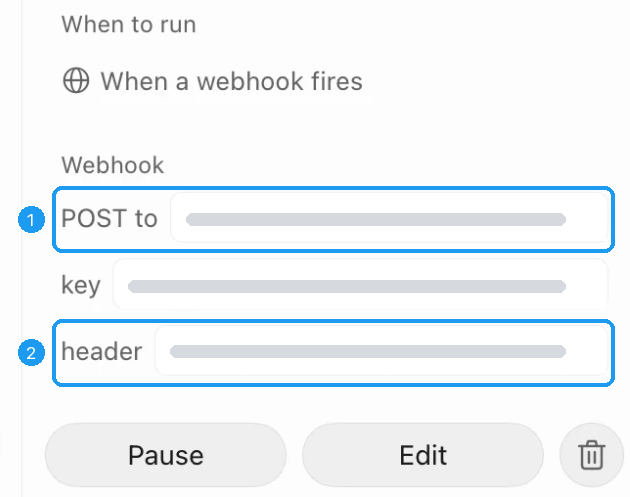
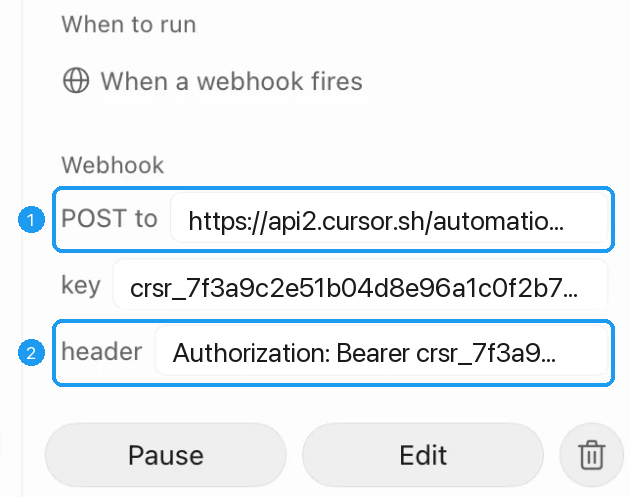
Show what Grok Bot's webhook values look like.
The screenshot shows sample values in the app's format instead of gray bars,
and the steps say what each value starts with.

Changed region(s): [[0.181, 0.5433, 0.9048, 0.6036], [0.2714, 0.4225, 0.9048, 0.4829], [0.2714, 0.664, 0.9048, 0.7243]]

diff --git a/docs/setup/grok.html b/docs/setup/grok.html
@@ -60,12 +60,12 @@
       <h2>Copy two values into the connect page</h2>
       <div class="actions" style="margin:4px 0 12px"><a class="btn" href="/connect" target="_blank" rel="noopener">Open the connect page</a></div>
       <div class="fill">
-        <div class="fill-row"><span class="badge">1</span><div><b>POST to</b><span class="muted">Copy it and paste it into the connect page. It says "Webhook URL saved."</span></div></div>
-        <div class="fill-row"><span class="badge">2</span><div><b>header</b><span class="muted">Copy it and paste it into the same box. It says "Now open x.com and click the arrow."</span></div></div>
+        <div class="fill-row"><span class="badge">1</span><div><b>POST to</b><span class="muted">Starts with <span class="mono">https://api2.cursor.sh/automations/webhook/</span>. Copy it and paste it into the connect page. It says "Webhook URL saved."</span></div></div>
+        <div class="fill-row"><span class="badge">2</span><div><b>header</b><span class="muted">Starts with <span class="mono">Authorization: Bearer crsr_</span>. Copy it and paste it into the same box. It says "Now open x.com and click the arrow." The <b>key</b> line (just <span class="mono">crsr_…</span>) works too.</span></div></div>
       </div>
       <figure class="shot">
-        <img src="/img/grok-webhook-values.png" width="630" height="497" alt="The routine's Webhook section with POST to numbered 1 and header numbered 2. The values are covered." style="max-width:630px">
-        <figcaption>Covered here. You'll see your real values. Paste them only on the connect page, never in a chat.</figcaption>
+        <img src="/img/grok-webhook-values.png" width="630" height="497" alt="The routine's Webhook section with sample values: POST to (https://api2.cursor.sh/automations/...) numbered 1, and header (Authorization: Bearer crsr_...) numbered 2." style="max-width:630px">
+        <figcaption>Sample values, not real ones. The app cuts long values off with "…", but copying takes the whole value. Paste yours only on the connect page, never in a chat.</figcaption>
       </figure>
       <p class="muted">If Chrome asks to allow a site, click <span class="ui">Allow</span>.</p>
     </li>
